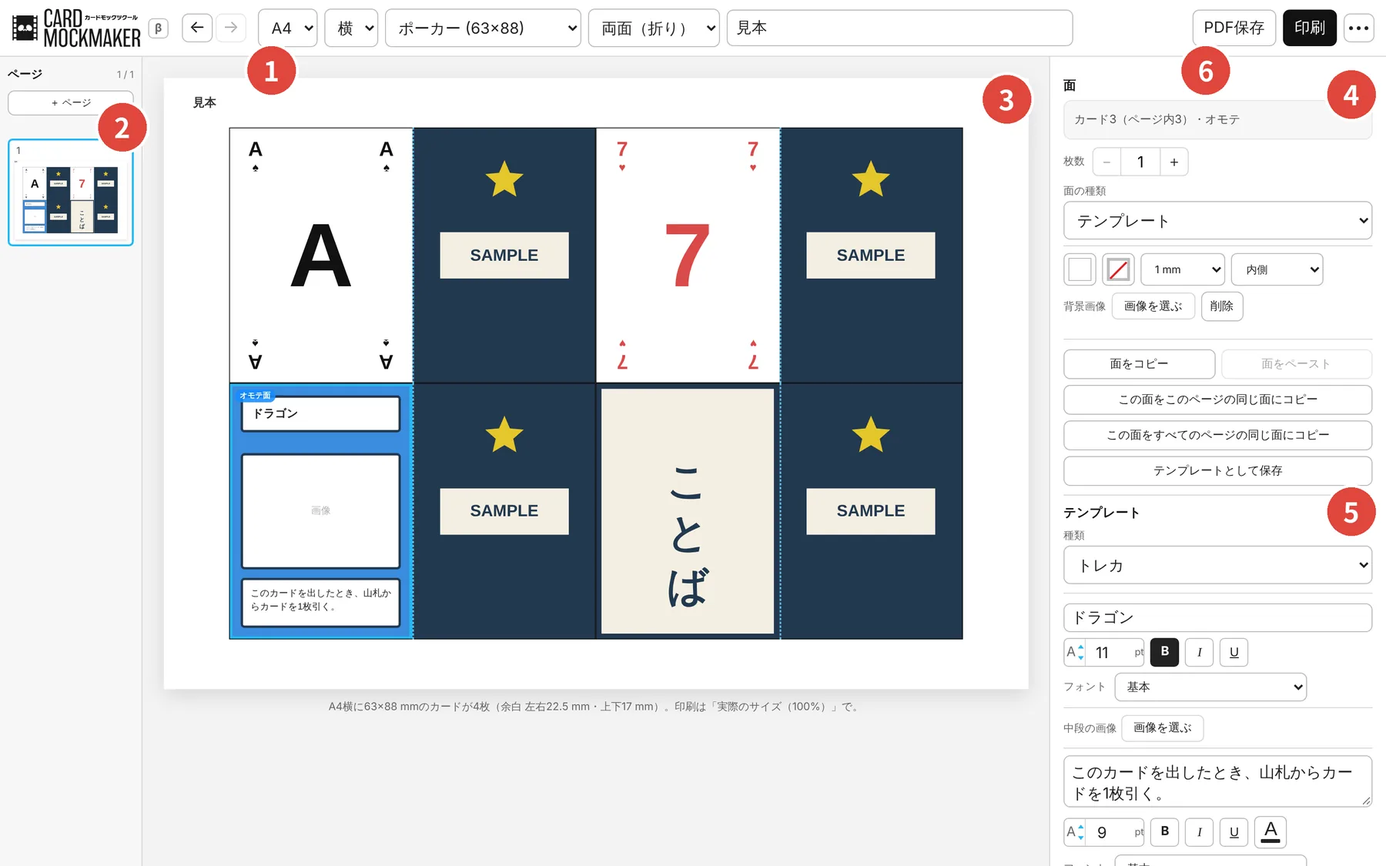
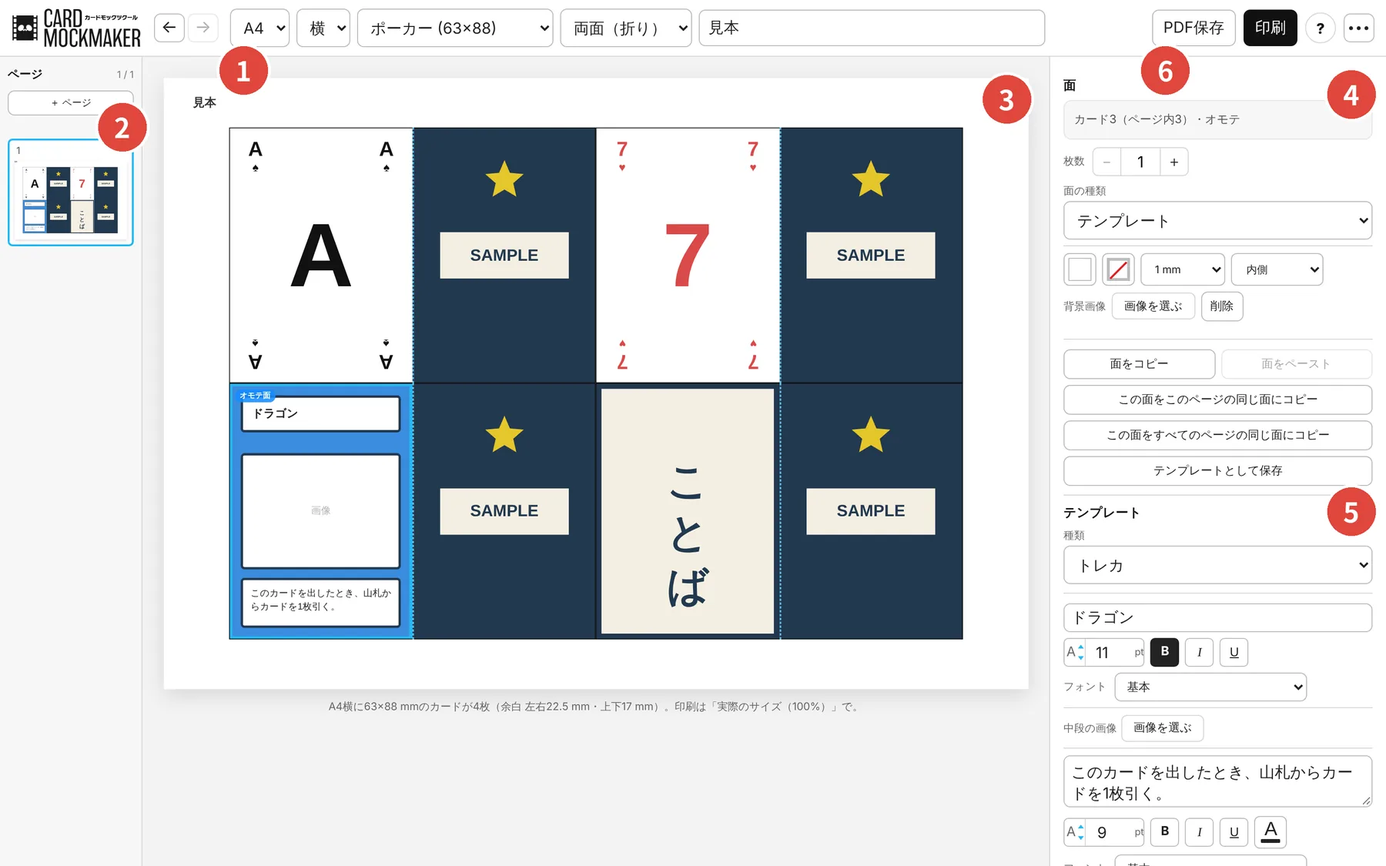
カードモックツクール(テスト版): βを外してVer.1.0に、使い方の「?」ボタンをいつもヘッダーに(見本の案内とは別)、右側のボタンをひとまとまりに
Claude-Session: https://claude.ai/code/session_01MypZ6bnFd6NWuA9aApFgtm

diff --git a/card-mock-maker-next/app.css b/card-mock-maker-next/app.css
@@ -2184,23 +2184,32 @@ header .app-brand{align-items:center}
 .tpl-save-name{width:100%;height:34px}
 @media(max-width:720px){.mytpl-choice{width:80px;font-size:12px!important}.tpl-save-name{height:44px;font-size:16px}}
 
-/* ---- 使い方へのリンク ---- */
-.settings-help{display:block;margin:-4px 0 12px;padding-bottom:12px;border-bottom:1px solid var(--ui-border);color:var(--ink);font-size:12px;font-weight:700;text-decoration:none}
-.settings-help::after{content:" →"}
-.settings-help:hover{text-decoration:underline}
-.empty-help{font-size:12px;color:var(--ink);text-decoration:underline}
-.m-help-link{display:block;margin:16px 0 4px;text-align:center;font-size:14px;font-weight:700;color:var(--ink)}
-@media print{.empty-help{display:none!important}}
 
 /* ---- ロゴ(正式ロゴ。色は文字色にそろえる) ---- */
[1 lines of base64/hex data omitted]
 @media(max-width:720px){.app-brand .app-logo{height:34px;width:85px}}
 .app-brand .brand-en{display:none!important}
 @media(max-width:1180px) and (min-width:721px){.app-brand .app-logo{height:34px;width:85px}}
-/* タブレット幅(721〜1023px):ヘッダーは2段に折り返す(横にはみ出して印刷ボタンが隠れないように)。
+/* タブレット幅(721〜1180px):入りきらないときはヘッダーを2段に折り返す(横にはみ出して印刷ボタンが隠れないように)。
    下の作業エリアの高さは、ヘッダーの実際の高さ(--hdr-h、app.jsで測る)から決める */
-@media(max-width:1023px) and (min-width:721px){
+@media(max-width:1180px) and (min-width:721px){
   header{flex-wrap:wrap!important;overflow-x:visible!important;row-gap:6px!important;padding-top:6px!important;padding-bottom:6px!important}
   header #sheetTitleInput{flex:1 1 140px;width:auto!important;min-width:120px}
 }
 @media(min-width:721px){.layout{height:calc(100vh - var(--hdr-h,58px))!important}.settings-pop{top:calc(var(--hdr-h,58px) - 2px)}}
+
+/* ---- 使い方ボタン(いつでもヘッダーに) ---- */
+header .help-btn{display:inline-flex;align-items:center;justify-content:center;flex:none;width:32px;height:32px;min-width:32px;padding:0;border:1px solid var(--ui-border);border-radius:50%;background:var(--ui-control);color:var(--ink);font-size:15px;font-weight:800;line-height:1;text-decoration:none}
+header .help-btn:hover{border-color:var(--ink)}
+@media(max-width:720px){
+  header{justify-content:flex-start!important}
+  header .app-brand{margin-right:auto}
+  header .help-btn{display:inline-flex!important;order:5;width:36px;height:36px;min-width:36px;font-size:17px}
+}
+@media print{header .help-btn{display:none!important}}
+/* 右側のボタン(PDF保存・印刷・使い方・メニュー)はひとまとまり:折り返すときも一緒に右へ */
+header .header-actions{display:flex;align-items:center;gap:8px;flex:none;margin-left:auto}
+@media(max-width:720px){
+  header .header-actions{display:flex!important;order:5}
+  header .header-actions > :not(.help-btn){display:none!important}
+}

diff --git a/card-mock-maker-next/guide/index.html b/card-mock-maker-next/guide/index.html
@@ -240,7 +240,7 @@
       <h1 class="g-title"><svg class="g-logo" viewBox="0 0 3328 1332" role="img" aria-label="カードモックツクール Card Mock Maker"><path fill="currentColor" fill-rule="evenodd" d="M3042 697 3042 1316 3116 1316 3116 1053 3117 1052 3162 1052 3163 1053 3174 1053 3187 1056 3202 1064 3211 1073 3220 1089 3226 1109 3230 1137 3231 1170 3232 1171 3234 1276 3235 1277 3235 1297 3238 1315 3239 1316 3319 1316 3315 1302 3311 1270 3310 1239 3309 1238 3307 1122 3304 1096 3300 1078 3291 1057 3284 1047 3277 1040 3257 1028 3246 1024 3239 1023 3237 1021 3240 1018 3248 1016 3266 1007 3276 1000 3289 987 3297 976 3305 961 3313 938 3320 899 3321 868 3322 867 3322 839 3321 838 3320 816 3317 800 3307 769 3299 754 3290 741 3273 724 3260 715 3244 707 3229 702 3199 697ZM3117 757 3182 757 3203 763 3217 772 3228 784 3236 798 3242 815 3247 845 3248 873 3247 874 3246 905 3240 936 3232 957 3223 971 3210 984 3196 992 3187 995 3176 997 3117 997 3116 996 3116 758ZM2745 697 2745 1316 2977 1316 2977 1257 2820 1257 2819 1256 2819 1024 2820 1023 2954 1023 2954 964 2820 964 2819 963 2819 757 2820 756 2975 756 2975 697ZM2392 697 2392 1316 2466 1316 2466 1171 2545 1030 2547 1032 2618 1315 2619 1316 2696 1316 2591 942 2591 937 2691 697 2620 697 2470 1050 2466 1049 2466 697ZM2144 697 2142 703 2140 720 2135 743 2133 760 2128 783 2126 800 2121 823 2119 840 2117 846 2108 903 2106 909 2101 943 2099 949 2094 983 2092 989 2087 1023 2085 1029 2080 1063 2078 1069 2069 1126 2067 1132 2035 1316 2101 1316 2114 1225 2117 1214 2250 1214 2252 1217 2266 1315 2267 1316 2342 1316 2294 1040 2292 1034 2287 1000 2285 994 2280 960 2278 954 2273 920 2271 914 2269 897 2264 874 2258 834 2253 811 2251 794 2246 771 2244 754 2239 731 2234 697ZM2182 793 2185 794 2186 806 2240 1138 2240 1144 2242 1151 2241 1155 2126 1155 2125 1154 2150 997 2150 991 2153 978 2157 946 2160 933 2166 888 2169 875 2175 830 2178 817 2180 798ZM1564 697 1564 1316 1628 1316 1627 843 1630 842 1632 845 1747 1316 1797 1316 1912 859 1914 855 1917 840 1919 838 1922 839 1921 1316 1985 1316 1985 697 1885 697 1878 728 1871 753 1859 807 1777 1144 1773 1142 1663 697ZM1210 697 1210 1316 1284 1316 1284 1171 1363 1030 1365 1032 1436 1315 1437 1316 1514 1316 1409 942 1409 937 1509 697 1438 697 1288 1050 1284 1049 1284 697ZM6 697 6 1316 70 1316 69 843 72 842 74 845 189 1316 239 1316 354 859 356 855 359 840 361 838 364 839 363 1316 427 1316 427 697 327 697 320 728 313 753 301 807 219 1144 215 1142 105 697ZM1017 685 1016 686 991 687 968 692 952 698 930 711 913 727 902 742 894 757 886 779 882 797 879 820 879 1195 883 1223 892 1253 903 1274 913 1287 923 1297 940 1309 966 1320 997 1326 1039 1326 1054 1324 1074 1319 1096 1309 1110 1299 1120 1289 1130 1275 1141 1250 1146 1229 1148 1213 1148 1161 1145 1133 1143 1123 1086 1129 1090 1154 1090 1171 1091 1172 1090 1197 1088 1211 1085 1223 1079 1237 1070 1249 1060 1257 1052 1261 1036 1265 1013 1265 1002 1263 993 1260 979 1252 968 1241 964 1235 957 1220 953 1201 953 810 954 804 960 785 967 773 980 759 989 753 1001 748 1016 745 1034 745 1055 750 1065 756 1074 765 1081 777 1086 792 1090 824 1089 858 1086 881 1087 882 1144 885 1148 854 1148 797 1145 776 1138 752 1127 731 1111 713 1090 699 1072 692 1049 687ZM652 685 651 686 626 687 602 692 585 698 560 712 547 723 535 737 523 757 515 778 510 800 508 816 508 1198 511 1219 515 1235 521 1251 530 1268 538 1279 555 1296 566 1304 585 1314 610 1322 634 1326 676 1326 700 1322 719 1316 738 1307 755 1295 768 1282 780 1265 790 1244 796 1224 800 1198 800 815 796 788 788 762 773 735 754 715 738 704 726 698 709 692 677 686ZM643 747 665 747 678 750 689 755 698 761 708 771 718 787 724 806 726 825 726 1188 725 1189 725 1202 719 1225 710 1241 693 1257 681 1263 664 1267 647 1267 635 1265 626 1262 609 1252 594 1235 588 1223 582 1199 582 813 588 789 597 773 610 760 624 752ZM2878 286 2878 318 3037 318 3037 286ZM1602 286 1602 318 1761 318 1761 286ZM2149 255 2162 304 2166 325 2198 325 2198 320 2188 279 2180 255ZM2293 255 2259 255 2259 277 2257 293 2251 315 2246 324 2236 281 2227 254 2196 254 2207 295 2212 323 2213 324 2245 324 2246 325 2241 332 2230 343 2223 348 2204 357 2181 363 2181 393 2202 390 2227 382 2250 369 2266 354 2277 338 2288 310 2293 281ZM2669 235 2633 235 2633 255 2630 281 2625 300 2618 315 2612 324 2599 337 2587 345 2569 353 2542 360 2542 392 2548 392 2568 388 2597 378 2622 363 2641 344 2649 332 2657 316 2663 298 2669 262ZM2505 235 2516 275 2524 313 2558 313 2553 286 2539 236 2538 235ZM2854 234 2725 234 2722 248 2713 266 2700 281 2690 288 2690 323 2710 314 2724 304 2741 285 2752 265 2817 265 2818 268 2814 287 2809 301 2797 322 2788 332 2771 345 2759 351 2737 358 2716 361 2716 392 2754 387 2783 377 2807 362 2824 345 2838 323 2848 296 2854 262ZM2484 234 2355 234 2352 248 2343 266 2330 281 2320 288 2320 323 2340 314 2354 304 2371 285 2382 265 2447 265 2448 268 2444 287 2439 301 2427 322 2418 332 2401 345 2389 351 2367 358 2346 361 2346 392 2384 387 2413 377 2437 362 2454 345 2468 323 2478 296 2484 262ZM2560 233 2574 287 2578 311 2613 311 2603 266 2593 233ZM1970 233 1970 263 2005 263 2006 264 2006 287 2005 288 1962 288 1962 319 2005 319 2006 320 2006 356 2008 367 2014 378 2021 384 2036 389 2122 389 2122 359 2053 358 2048 356 2043 351 2041 339 2041 320 2042 319 2129 319 2129 288 2042 288 2041 287 2041 264 2042 263 2121 263 2121 233ZM1906 232 1906 259 1927 259 1927 232ZM1879 232 1879 259 1900 259 1900 232ZM3160 231 3127 231 3127 392 3142 391 3161 387 3176 381 3190 372 3203 359 3211 347 3217 334 3222 317 3225 298 3225 282 3192 282 3191 300 3184 324 3175 339 3166 347 3162 349 3160 348ZM3111 231 3078 231 3078 282 3077 283 3076 314 3071 334 3065 346 3055 357 3055 396 3069 388 3085 374 3095 360 3102 345 3106 332 3110 308ZM1798 227 1798 394 1833 394 1833 313 1834 312 1940 334 1940 300 1939 299 1883 287 1835 279 1833 277 1833 227ZM1413 255 1413 286 1457 286 1458 287 1458 294 1455 308 1446 328 1441 335 1426 350 1413 358 1413 391 1417 391 1425 388 1442 379 1455 369 1468 355 1476 343 1485 324 1490 306 1493 286 1534 286 1535 287 1535 347 1533 352 1528 357 1525 358 1491 359 1491 390 1540 389 1548 387 1556 383 1563 376 1567 369 1570 358 1570 255 1494 255 1493 254 1493 227 1458 227 1458 254 1457 255ZM1006 16 1006 635 1178 635 1206 631 1229 624 1240 619 1257 608 1275 589 1281 580 1290 560 1294 546 1298 521 1298 140 1294 112 1287 88 1279 71 1264 51 1254 42 1230 28 1209 21 1178 16ZM1081 75 1159 75 1171 77 1183 81 1194 87 1208 101 1217 118 1222 137 1223 160 1224 161 1224 489 1223 490 1223 505 1221 517 1216 533 1211 543 1203 554 1193 563 1185 568 1163 575 1154 576 1081 576 1080 575 1080 76ZM661 16 661 635 735 635 735 372 736 371 781 371 782 372 793 372 806 375 821 383 830 392 839 408 845 428 849 456 850 489 851 490 853 595 854 596 854 616 857 634 858 635 938 635 934 621 930 589 929 558 928 557 926 441 923 415 919 397 910 376 903 366 896 359 876 347 865 343 858 342 856 340 859 337 867 335 885 326 895 319 908 306 916 295 924 280 932 257 939 218 940 187 941 186 941 158 940 157 939 135 936 119 926 88 918 73 909 60 892 43 879 34 863 26 848 21 818 16ZM736 76 801 76 822 82 836 91 847 103 855 117 861 134 866 164 867 192 866 193 865 224 859 255 851 276 842 290 829 303 815 311 806 314 795 316 736 316 735 315 735 77ZM413 16 411 22 409 39 404 62 402 79 397 102 395 119 390 142 388 159 386 165 377 222 375 228 370 262 368 268 363 302 361 308 356 342 354 348 349 382 347 388 338 445 336 451 304 635 370 635 383 544 386 533 519 533 521 536 535 634 536 635 611 635 563 359 561 353 556 319 554 313 549 279 547 273 542 239 540 233 538 216 533 193 527 153 522 130 520 113 515 90 513 73 508 50 503 16ZM451 112 454 113 455 125 509 457 509 463 511 470 510 474 395 474 394 473 419 316 419 310 422 297 426 265 429 252 435 207 438 194 444 149 447 136 449 117ZM142 4 141 5 116 6 93 11 77 17 55 30 38 46 27 61 19 76 11 98 7 116 4 139 4 514 8 542 17 572 28 593 38 606 48 616 65 628 91 639 122 645 164 645 179 643 199 638 221 628 235 618 245 608 255 594 266 569 271 548 273 532 273 480 270 452 268 442 211 448 215 473 215 490 216 491 215 516 213 530 210 542 204 556 195 568 185 576 177 580 161 584 138 584 127 582 118 579 104 571 93 560 89 554 82 539 78 520 78 129 79 123 85 104 92 92 105 78 114 72 126 67 141 64 159 64 180 69 190 75 199 84 206 96 211 111 215 143 214 177 211 200 212 201 269 204 273 173 273 116 270 95 263 71 252 50 236 32 215 18 197 11 174 6Z"/></svg><span class="g-howto"><span lang="ja">使い方ガイド</span><span lang="en">User guide</span></span></h1>
       <p class="lead" lang="ja">カードゲームの試作を、ブラウザだけで作って印刷。</p><p class="lead" lang="en">Build and print card game prototypes, right in your browser.</p>
       <div class="g-cta"><a class="btn primary" href="../"><span lang="ja">ツールを開く</span><span lang="en">Open the tool</span><span aria-hidden="true"> →</span></a><a class="btn" href="#start"><span lang="ja">はじめに</span><span lang="en">Getting started</span></a></div>
-      <p class="beta" lang="ja">改良テスト版（β）の使い方です。画面や機能は変わることがあります。</p><p class="beta" lang="en">This guide is for the test build (β). Screens and features may change.</p>
+      <p class="beta" lang="ja">Ver.1.0の使い方です。画面や機能は変わることがあります。</p><p class="beta" lang="en">This guide covers Ver.1.0. Screens and features may change.</p>
     </div>
     <div class="g-hero-art" aria-hidden="true"><i></i><i></i><i></i></div>
   </section>
@@ -268,7 +268,7 @@
 <div class="split">
   <div>
     <p lang="ja">はじめて開くと、用紙は白紙です。まずは<b class="ui">見本を開く</b>で見本のカードを触ってみるのがおすすめです。表計算ソフトにカードのリストがあるなら、<b class="ui">表から一括作成</b>でまとめて作れます。</p><p lang="en">The first time you open it, the sheet is blank. Try <b class="ui">Open sample</b> to play with some example cards first. If your card list is in a spreadsheet, <b class="ui">Create from a table</b> makes them all at once.</p>
-    <p lang="ja">ツールの右上の<b class="ui">•••</b>（スマホは<b class="ui">メニュー</b>）からも、見本・一括作成・この使い方を開けます。</p><p lang="en">The <b class="ui">•••</b> menu at the top right (<b class="ui">Menu</b> on a phone) also has the sample, table import and this guide.</p>
+    <p lang="ja">見本と一括作成は、ツールの右上の<b class="ui">•••</b>（スマホは<b class="ui">メニュー</b>）からもいつでも開けます。この使い方は、右上の<b class="ui">?</b>ボタンでいつでも開けます。</p><p lang="en">The sample and table import are always in the <b class="ui">•••</b> menu at the top right (<b class="ui">Menu</b> on a phone). This guide opens any time from the <b class="ui">?</b> button at the top right.</p>
   </div>
   <figure class="shot "><img lang="ja" src="img/start-ja.webp?v=20261026" width="1600" height="538" alt="最初の画面。案内から見本や一括作成を開けます" loading="lazy" decoding="async"><img lang="en" src="img/start-en.webp?v=20261026" width="1600" height="538" alt="The first screen. Open the sample or table import from the hint." loading="lazy" decoding="async"><figcaption><span lang="ja">最初の画面。案内から見本や一括作成を開けます</span><span lang="en">The first screen. Open the sample or table import from the hint.</span></figcaption></figure>
 </div>
@@ -284,7 +284,7 @@
   <li><b>用紙</b>印刷される用紙そのままのプレビューです。カードをクリックすると水色の枠で選ばれ、右のパネルで編集できます。用紙の下には、1枚に何枚入るかと余白が出ます。</li>
   <li><b>面</b>選んでいる面（オモテ・ウラ）の枚数、種類、背景、コピーなど（→<a href="#card">カードを作る</a>）。</li>
   <li><b>テンプレート・オプション</b>テンプレートの中身と、テキストボックスなどの追加パーツ（→<a href="#template">テンプレート</a>・<a href="#options">オプション</a>）。</li>
-  <li><b>PDF保存・印刷・メニュー（•••）</b>メニューには「新規」「PDF読み込み」「見本を開く」「表から一括作成」「画像で書き出す」「マイテンプレート」「使い方を見る」と、設定（単位・フォント・言語）があります。</li>
+  <li><b>PDF保存・印刷・使い方（?）・メニュー（•••）</b>「?」でこの使い方が開きます。メニューには「新規」「PDF読み込み」「見本を開く」「表から一括作成」「画像で書き出す」「マイテンプレート」と、設定（単位・フォント・言語）があります。</li>
 </ol>
 <ol class="legend" lang="en">
   <li><b>Paper, cards, layout, title</b> Choose the paper size (A4/A3), orientation, card size and layout (see <a href="#layout">Layout</a>). The title is printed small at the top left of the sheet. The ← → buttons are Undo and Redo.</li>
@@ -292,7 +292,7 @@
   <li><b>Sheet</b> A preview of exactly what gets printed. Click a card to select it (cyan outline) and edit it in the right panel. Below the sheet you can see how many cards fit and the margins.</li>
   <li><b>Face</b> Copies, face type, background and copy tools for the selected face (front or back) (see <a href="#card">Making a card</a>).</li>
   <li><b>Template &amp; Options</b> The template’s contents and extra parts such as text boxes (see <a href="#template">Templates</a> and <a href="#options">Options</a>).</li>
-  <li><b>Save PDF, Print, Menu (•••)</b> The menu has New, Open PDF, Open sample, Create from a table, Export images, My templates, How to use, and settings (units, font, language).</li>
+  <li><b>Save PDF, Print, Guide (?), Menu (•••)</b> “?” opens this guide. The menu has New, Open PDF, Open sample, Create from a table, Export images, My templates, and settings (units, font, language).</li>
 </ol>
 <h3><span lang="ja">カードサイズ</span><span lang="en">Card sizes</span></h3>
 <div class="table-wrap"><table class="sizes">

diff --git a/card-mock-maker-next/index.html b/card-mock-maker-next/index.html
@@ -3,12 +3,12 @@
 <head>
 <meta charset="utf-8">
 <meta name="viewport" content="width=device-width, initial-scale=1">
-<title>カードモックツクール β（改良テスト版） | Card Mock Maker</title>
+<title>カードモックツクール（改良テスト版） | Card Mock Maker</title>
 <meta name="robots" content="noindex">
 <meta name="description" content="ボードゲーム・カードゲームのカードモックをブラウザ上で作成・印刷できる無料ツール。テンプレート、画像、テキストボックス、PDF保存・再編集に対応。">
 <meta name="theme-color" content="#f3f3f3" media="(prefers-color-scheme: light)">
 <meta name="theme-color" content="#1d1d1d" media="(prefers-color-scheme: dark)">
-<meta property="og:title" content="カードモックツクール β | Card Mock Maker">
+<meta property="og:title" content="カードモックツクール | Card Mock Maker">
 <meta property="og:description" content="カードゲームのモックをブラウザ上で簡単に作成・印刷できるツール。">
 <meta property="og:type" content="website">
 <meta name="twitter:card" content="summary">
@@ -23,7 +23,6 @@
   <div class="app-brand">
     <a class="pk-home" href="/" title="パンダキネマのサイトへ" aria-label="パンダキネマのサイトへ"><i aria-hidden="true"></i></a>
     <span class="app-logo" role="img" aria-label="カードモックツクール"></span>
-    <span class="beta-badge">β</span>
     <span class="brand-en">Card Mock Maker</span>
   </div>
   <div class="history-controls" aria-label="履歴">
@@ -40,10 +39,13 @@
   <select id="impositionMode" title="面付けモード"><option value="duplex">両面（折り）</option><option value="both">両面印刷</option><option value="single">片面</option></select>
   <input id="sheetTitleInput" type="text" placeholder="タイトル" style="width:330px">
   <span class="toolbar-spacer header-action-gap"></span>
-  <button id="editablePdfBtn">PDF保存</button>
-  <input id="loadPdf" type="file" accept="application/pdf,.pdf" class="hidden">
-  <button id="printBtn" class="primary">印刷</button>
-  <button id="settingsBtn" class="icon-btn settings-btn" type="button" title="メニュー" aria-label="メニュー" aria-expanded="false" aria-controls="settingsPop">•••</button>
+  <div class="header-actions">
+    <button id="editablePdfBtn">PDF保存</button>
+    <input id="loadPdf" type="file" accept="application/pdf,.pdf" class="hidden">
+    <button id="printBtn" class="primary">印刷</button>
+    <a id="helpBtn" class="icon-btn help-btn" href="guide/" target="_blank" rel="noopener" title="使い方" aria-label="使い方">?</a>
+    <button id="settingsBtn" class="icon-btn settings-btn" type="button" title="メニュー" aria-label="メニュー" aria-expanded="false" aria-controls="settingsPop">•••</button>
+  </div>
   <span id="fitStatus" class="size-note hidden"></span>
 </header>
 
@@ -56,7 +58,6 @@
     <button type="button" class="open-export">画像で書き出す</button>
     <button type="button" class="open-tpl">マイテンプレート</button>
   </div>
-  <a class="settings-help" href="guide/" target="_blank" rel="noopener">使い方を見る</a>
   <div class="settings-title">設定</div>
   <div class="settings-row" data-mslot="units"><label for="unitLen">長さの単位</label><select id="unitLen"><option value="mm">mm</option><option value="cm">cm</option><option value="inch">inch</option><option value="pt">pt</option><option value="px">px</option></select></div>
   <div class="settings-row" data-mslot="units"><label for="unitText">文字の単位</label><select id="unitText"><option value="pt">pt</option><option value="Q">級（Q）</option><option value="px">px</option></select></div>
@@ -151,7 +152,6 @@
         <span>カードをクリックして、右のパネルの「面の種類」から作りはじめます。</span>
         <button type="button" class="open-sample">見本を開く</button>
         <button type="button" class="open-bulk">表から一括作成</button>
-        <a class="empty-help" href="guide/" target="_blank" rel="noopener">使い方</a>
       </div>
       <div id="duplexBar" class="duplex-bar" hidden>
         <div class="seg" role="group" aria-label="表示する面"><button type="button" data-view-side="front" aria-pressed="true">オモテ面</button><button type="button" data-view-side="back" aria-pressed="false">ウラ面</button></div>
@@ -237,7 +237,6 @@
           </div>
           <div class="m-group-title">言語 / Language</div>
           <div class="lang-switch m-lang-switch" role="group" aria-label="言語 / Language"><button type="button" data-lang-btn="ja" aria-pressed="true">JA</button><button type="button" data-lang-btn="en" aria-pressed="false">EN</button></div>
-          <a class="m-help-link" href="guide/" target="_blank" rel="noopener">使い方を見る</a>
           <div class="app-copyright">©2026 Panda Kinema</div>
         </div>
       </div>
@@ -499,7 +498,7 @@
   </div>
 
   <div class="public-beta-note">
-    <strong>β版</strong>
+    <strong>Ver.1.0</strong>
     <span>画像や編集データはブラウザ内で処理され、サーバーへ送信されません。</span>
   </div>
   <div class="app-copyright">©2026 Panda Kinema</div>

diff --git a/card-mock-maker-next/i18n.js b/card-mock-maker-next/i18n.js
@@ -4,7 +4,7 @@
 (function(){
 const EN={
   // ---- アプリ全体
-  "カードモックツクール":"Card Mock Maker","β":"β","β版":"Beta",
+  "カードモックツクール":"Card Mock Maker",
   "パンダキネマのサイトへ":"Go to the Panda Kinema site",
   "履歴":"History","取り消し":"Undo","やり直し":"Redo","取り消し（⌘Z / Ctrl+Z）":"Undo (⌘Z / Ctrl+Z)","やり直し（⇧⌘Z / Ctrl+Y）":"Redo (⇧⌘Z / Ctrl+Y)",
   "用紙サイズ":"Paper size","用紙方向":"Paper orientation","横":"Landscape","縦":"Portrait","カードサイズ":"Card size",
@@ -108,7 +108,7 @@ const EN={
   "マイテンプレート「{name}」で、表の1行を1枚のカードにします。作ったカードは今あるカードのあとに並び、このテンプレートでつながります。":"Each row becomes one card using your template \"{name}\". The new cards are added after your existing cards and linked to this template.",
   "{name}の基本の見た目で、表の1行を1枚のカードにします。作ったカードは今あるカードのあとに並びます。作ったカードは同じテンプレートでつながるので、どれか1枚の色などを変えると全部に反映されます。":"Each row becomes one card in the basic {name} style, added after your existing cards. The new cards are linked by one template, so changing the colours etc. on any of them changes them all.",
   "このテンプレートには文字を入れる場所がありません。トランプ・トレカ・ワードゲームか、テキストボックスのあるテンプレートを選んでください。":"This template has nowhere to put text. Choose playing card, trading card, word game, or a template with text boxes.",
-  "使い方を見る":"How to use","使い方":"Guide",
+  "使い方":"Guide",
   "マイテンプレート":"My templates","名前":"Name",
   "このカードの見た目を保存します。保存したテンプレートは、面の種類の「マイテンプレート」から選べます。このブラウザで作るほかの作品でも使えます。":"Saves this card's look. Pick saved templates from \"My templates\" under Face type — also in your other projects in this browser.",
   "まだマイテンプレートがありません。カードの見た目を整えたら、下の「テンプレートとして保存」で作れます。":"No templates yet. Once a card looks right, use \"Save as template\" below.",
@@ -137,7 +137,7 @@ const EN={
   "これ以上カードを増やせません（最大{n}ページ）":"Can't add more cards (up to {n} pages).",
   "ドラゴン":"Dragon","このカードを出したとき、山札からカードを1枚引く。":"When you play this card, draw a card.",
   // ---- メタ
-  "カードモックツクール β（改良テスト版） | Card Mock Maker":"Card Mock Maker β (test build)",
+  "カードモックツクール（改良テスト版） | Card Mock Maker":"Card Mock Maker (test build)",
 };
 const PATTERNS=[
   [/^カード(\d+)（ページ内(\d+)）・(オモテ|ウラ)$/,(m)=>`Card ${m[1]} (#${m[2]} on page) · ${m[3]==="オモテ"?"Front":"Back"}`],
@@ -219,7 +219,7 @@ function setLang(l,{save=true}={}){
   lang=l==="en"?"en":"ja";
   document.documentElement.lang=lang;
   if(save){try{localStorage.setItem("pk-lang",lang)}catch(e){}}
-  if(lang==="en"){applyTo(document.body);document.title=T("カードモックツクール β（改良テスト版） | Card Mock Maker")}
+  if(lang==="en"){applyTo(document.body);document.title=T("カードモックツクール（改良テスト版） | Card Mock Maker")}
   else{restoreAll();document.title=document.documentElement.dataset.jaTitle||document.title}
   document.querySelectorAll("[data-lang-btn]").forEach(b=>b.setAttribute("aria-pressed",String(b.dataset.langBtn===lang)));
   document.dispatchEvent(new CustomEvent("cmm-langchange",{detail:{lang}}));
